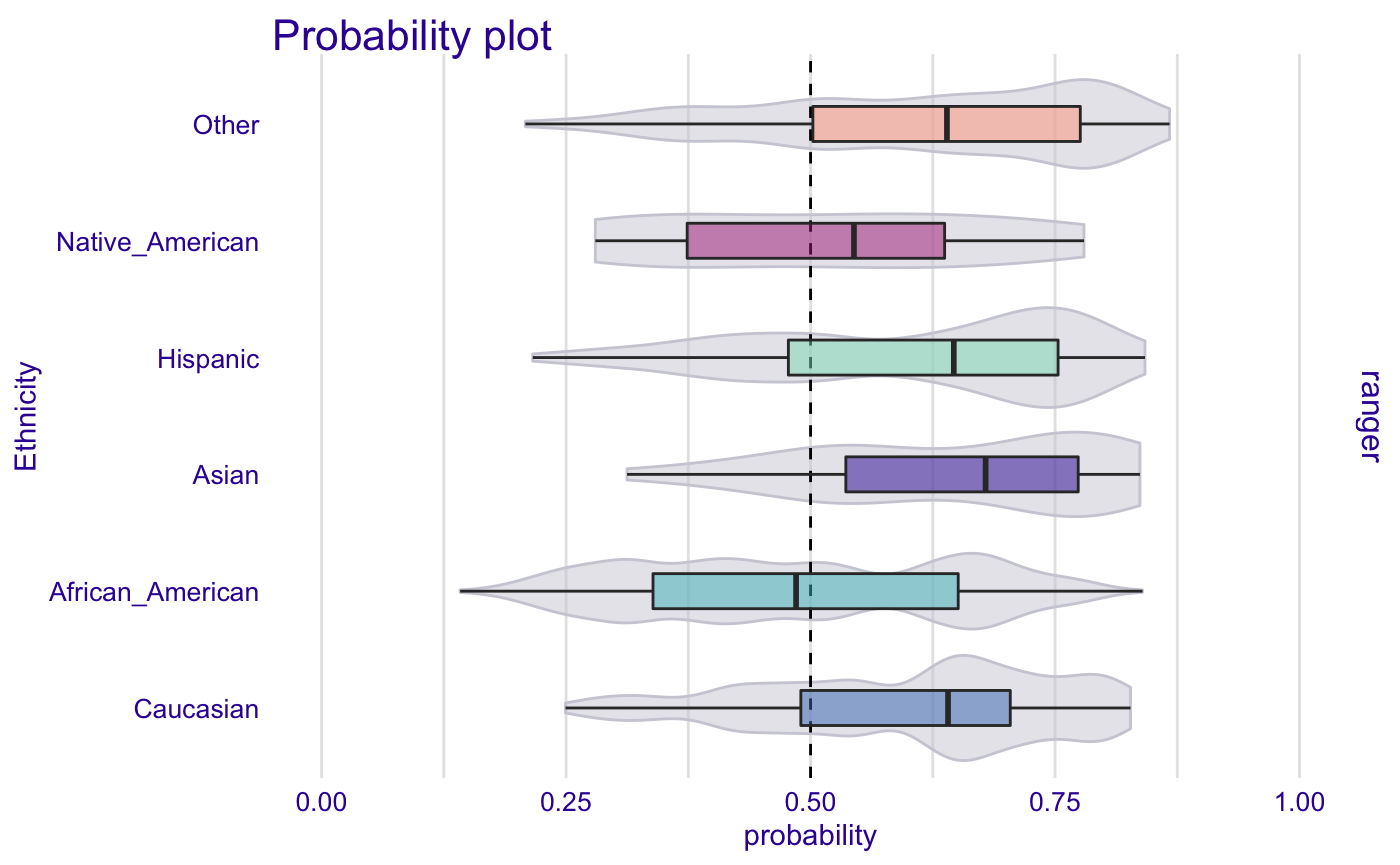
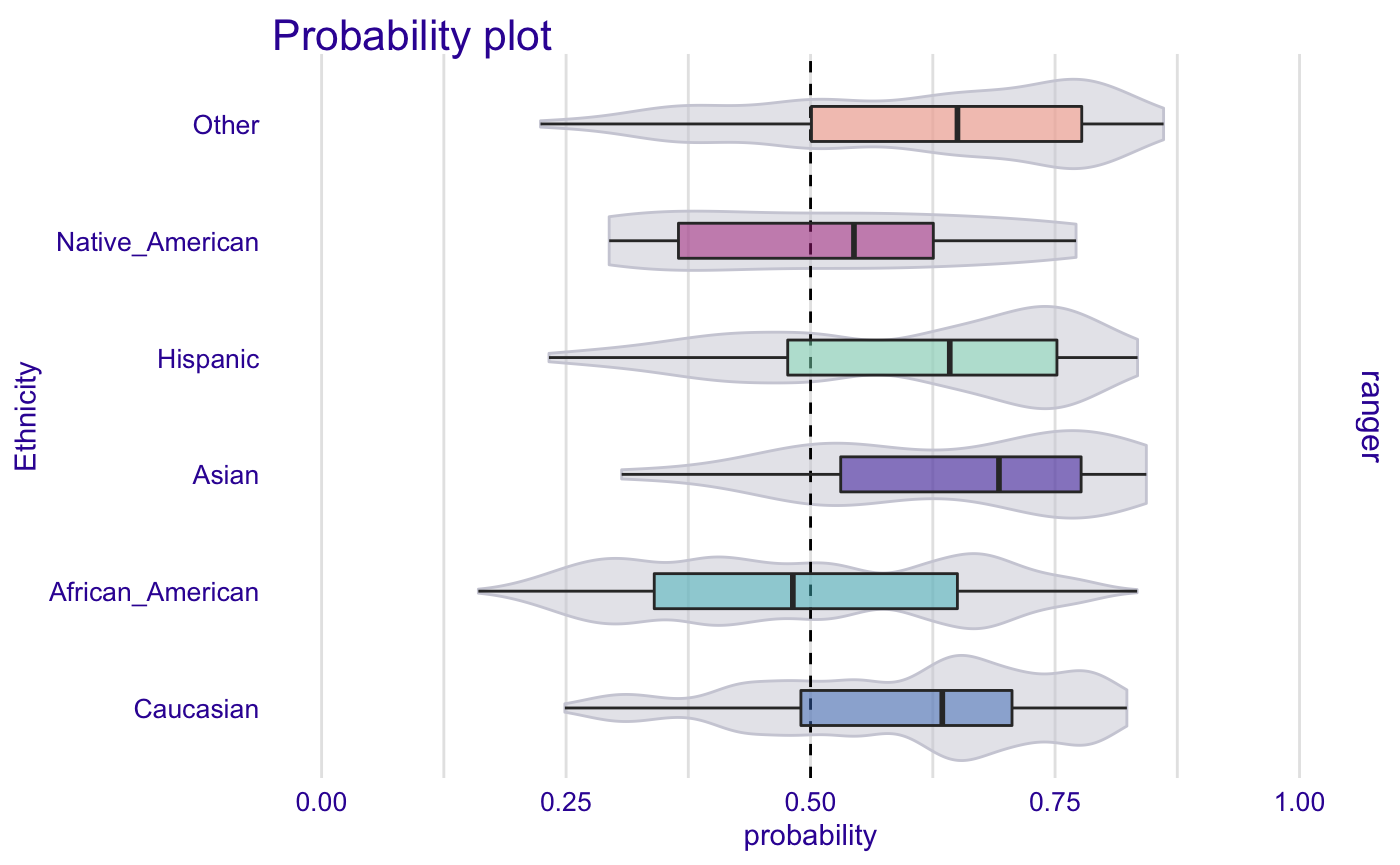
Built site for FairModels: 0.1.0@58023f9

diff --git a/articles/tutorial.html b/articles/tutorial.html
@@ -139,9 +139,9 @@
 #&gt;   -&gt; target variable   :  6172  values 
 #&gt;   -&gt; model_info        :  package ranger , ver. 0.12.1 , task classification ( [33m default [39m ) 
 #&gt;   -&gt; predict function  :  yhat.ranger  will be used ( [33m default [39m )
-#&gt;   -&gt; predicted values  :  numerical, min =  0.1416477 , mean =  0.5454972 , max =  0.8670898  
+#&gt;   -&gt; predicted values  :  numerical, min =  0.1603076 , mean =  0.5448919 , max =  0.8609738  
 #&gt;   -&gt; residual function :  difference between y and yhat ( [33m default [39m )
-#&gt;   -&gt; residuals         :  numerical, min =  -0.8431245 , mean =  -0.0006170654 , max =  0.7891836  
+#&gt;   -&gt; residuals         :  numerical, min =  -0.8428607 , mean =  -1.178066e-05 , max =  0.7884089  
 #&gt;  [32m A new explainer has been created! [39m</code></pre>
 <p>Than we create <code>fairness_object</code> with <code><a href="../reference/create_fairness_object.html">create_fairness_object()</a></code></p>
 <div class="sourceCode" id="cb5"><html><body><pre class="r"><span class="no">fobject</span> <span class="kw">&lt;-</span> <span class="fu"><a href="../reference/create_fairness_object.html">create_fairness_object</a></span>(<span class="no">rf_explainer</span>,
